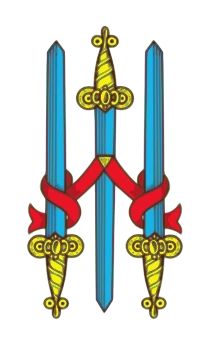
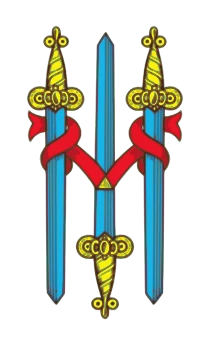
fix(napoletane): 3, 5 and 7 of swords match the real cards
The sprite's 3 of swords was the real card turned 180 degrees (outer
hilts at the top, middle hilt at the bottom, the ribbon a V). On its 5
and 7 the horizontal middle sword had its hilt on the left; the real
cards have it on the right. The 3 is turned as a whole; the middle
sword of the 5 is turned and that of the 7 mirrored about its centre,
so both grips hatch the way the real ones do. Rendered like the
originals (70 x 115 CSS px at 3x). Checked sword by sword against
photos of the real deck by the hilt side relative to the blade, which
agrees with the photos on the untouched 2, 4 and 6. Follow-up to the
clubs in GitHub issue #2.

diff --git a/docs/architecture.md b/docs/architecture.md
@@ -842,6 +842,20 @@ const response = await client.beta.messages.create({
   bottom row is the top row turned 180°), and renders the WebP files the way
   the originals were made: the 70 × 115 CSS px card at 3× in headless
   Chromium, 210 × 345 RGBA
+- 3, 5 and 7 of swords corrected 2026-11-08 (same issue, follow-up). The
+  sprite's 3 was the real card turned 180° (on the real card the outer hilts
+  are at the top, the middle hilt at the bottom and the ribbon a V with its
+  vertex at the bottom); on its 5 and 7 the horizontal middle sword had its
+  hilt on the left, on the real cards it is on the right. The 2, 4 and 6
+  match. `local/napoletane/fix-swords.py` turns the 3's whole group about the
+  artwork centre and wraps the middle sword's three paths in a group that
+  turns (5) or mirrors (7) them about their own centre: both give the same
+  silhouette, and the choice makes the grip's hatching run the way it does on
+  the real cards (the sprite drew the two swords with opposite hatching).
+  Sources `clubs-N.original.svg` (the swapped ids again), same render recipe.
+  Checked sword by sword with a measurable feature, the side of the hilt
+  (yellow) relative to the blade (blue) along the sword's axis, which agrees
+  with the photos on the untouched 2, 4 and 6
 
 **Siciliane Deck (Phase 19):**
 - Suit SVGs from Wikimedia Commons (Tarocco Siciliano) in `public/cards/siciliane/suits/`
